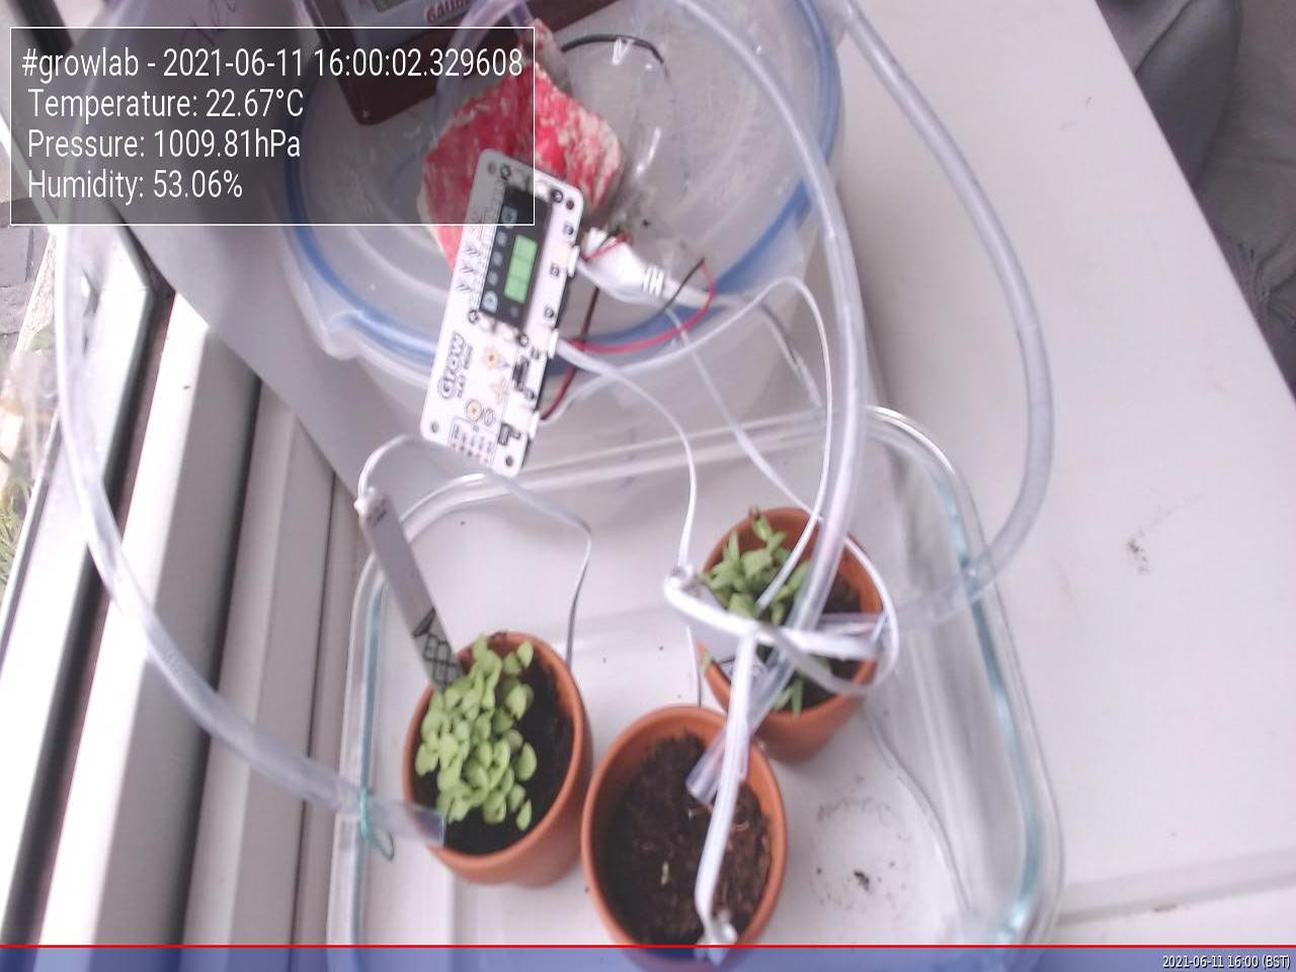
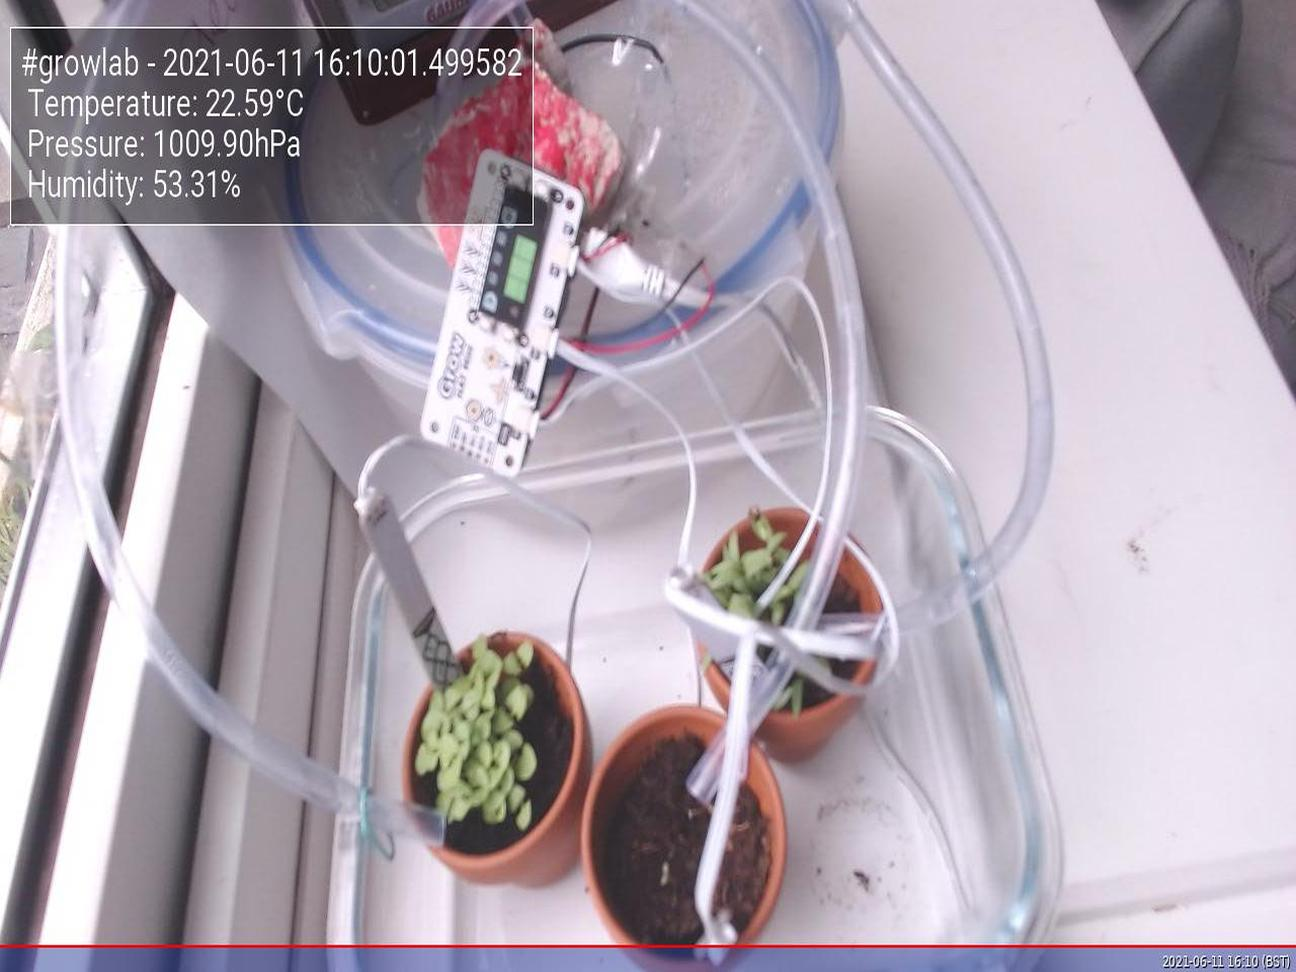
Update images at Fri 11 Jun 16:10:05 BST 2021

diff --git a/app/docs/index.html b/app/docs/index.html
@@ -47,19 +47,19 @@
                         <tbody>
                             <tr>
                                 <td>Time</td>
-                                <td>2021-06-11 16:00:02.329608</td>
+                                <td>2021-06-11 16:10:01.499582</td>
                             </tr>
                             <tr>
                                 <td>Temperature</td>
-                                <td>22.67°C</td>
+                                <td>22.59°C</td>
                             </tr>
                             <tr>
                                 <td>Humidity</td>
-                                <td>53.06%</td>
+                                <td>53.31%</td>
                             </tr>
                             <tr>
                                 <td>Pressure</td>
-                                <td>1009.81hPa</td>
+                                <td>1009.90hPa</td>
                             </tr>
                         </tbody>
                     </table>
@@ -67,7 +67,7 @@
 
                 <h5>Latest image</h5>
                 <div style="width: 85%;">
-                            <img class="figure-img img-fluid rounded" src="./preview.jpg?uid=1623423606.1014626">
+                            <img class="figure-img img-fluid rounded" src="./preview.jpg?uid=1623424205.2478852">
                 </div>
             </div>
         </div>
